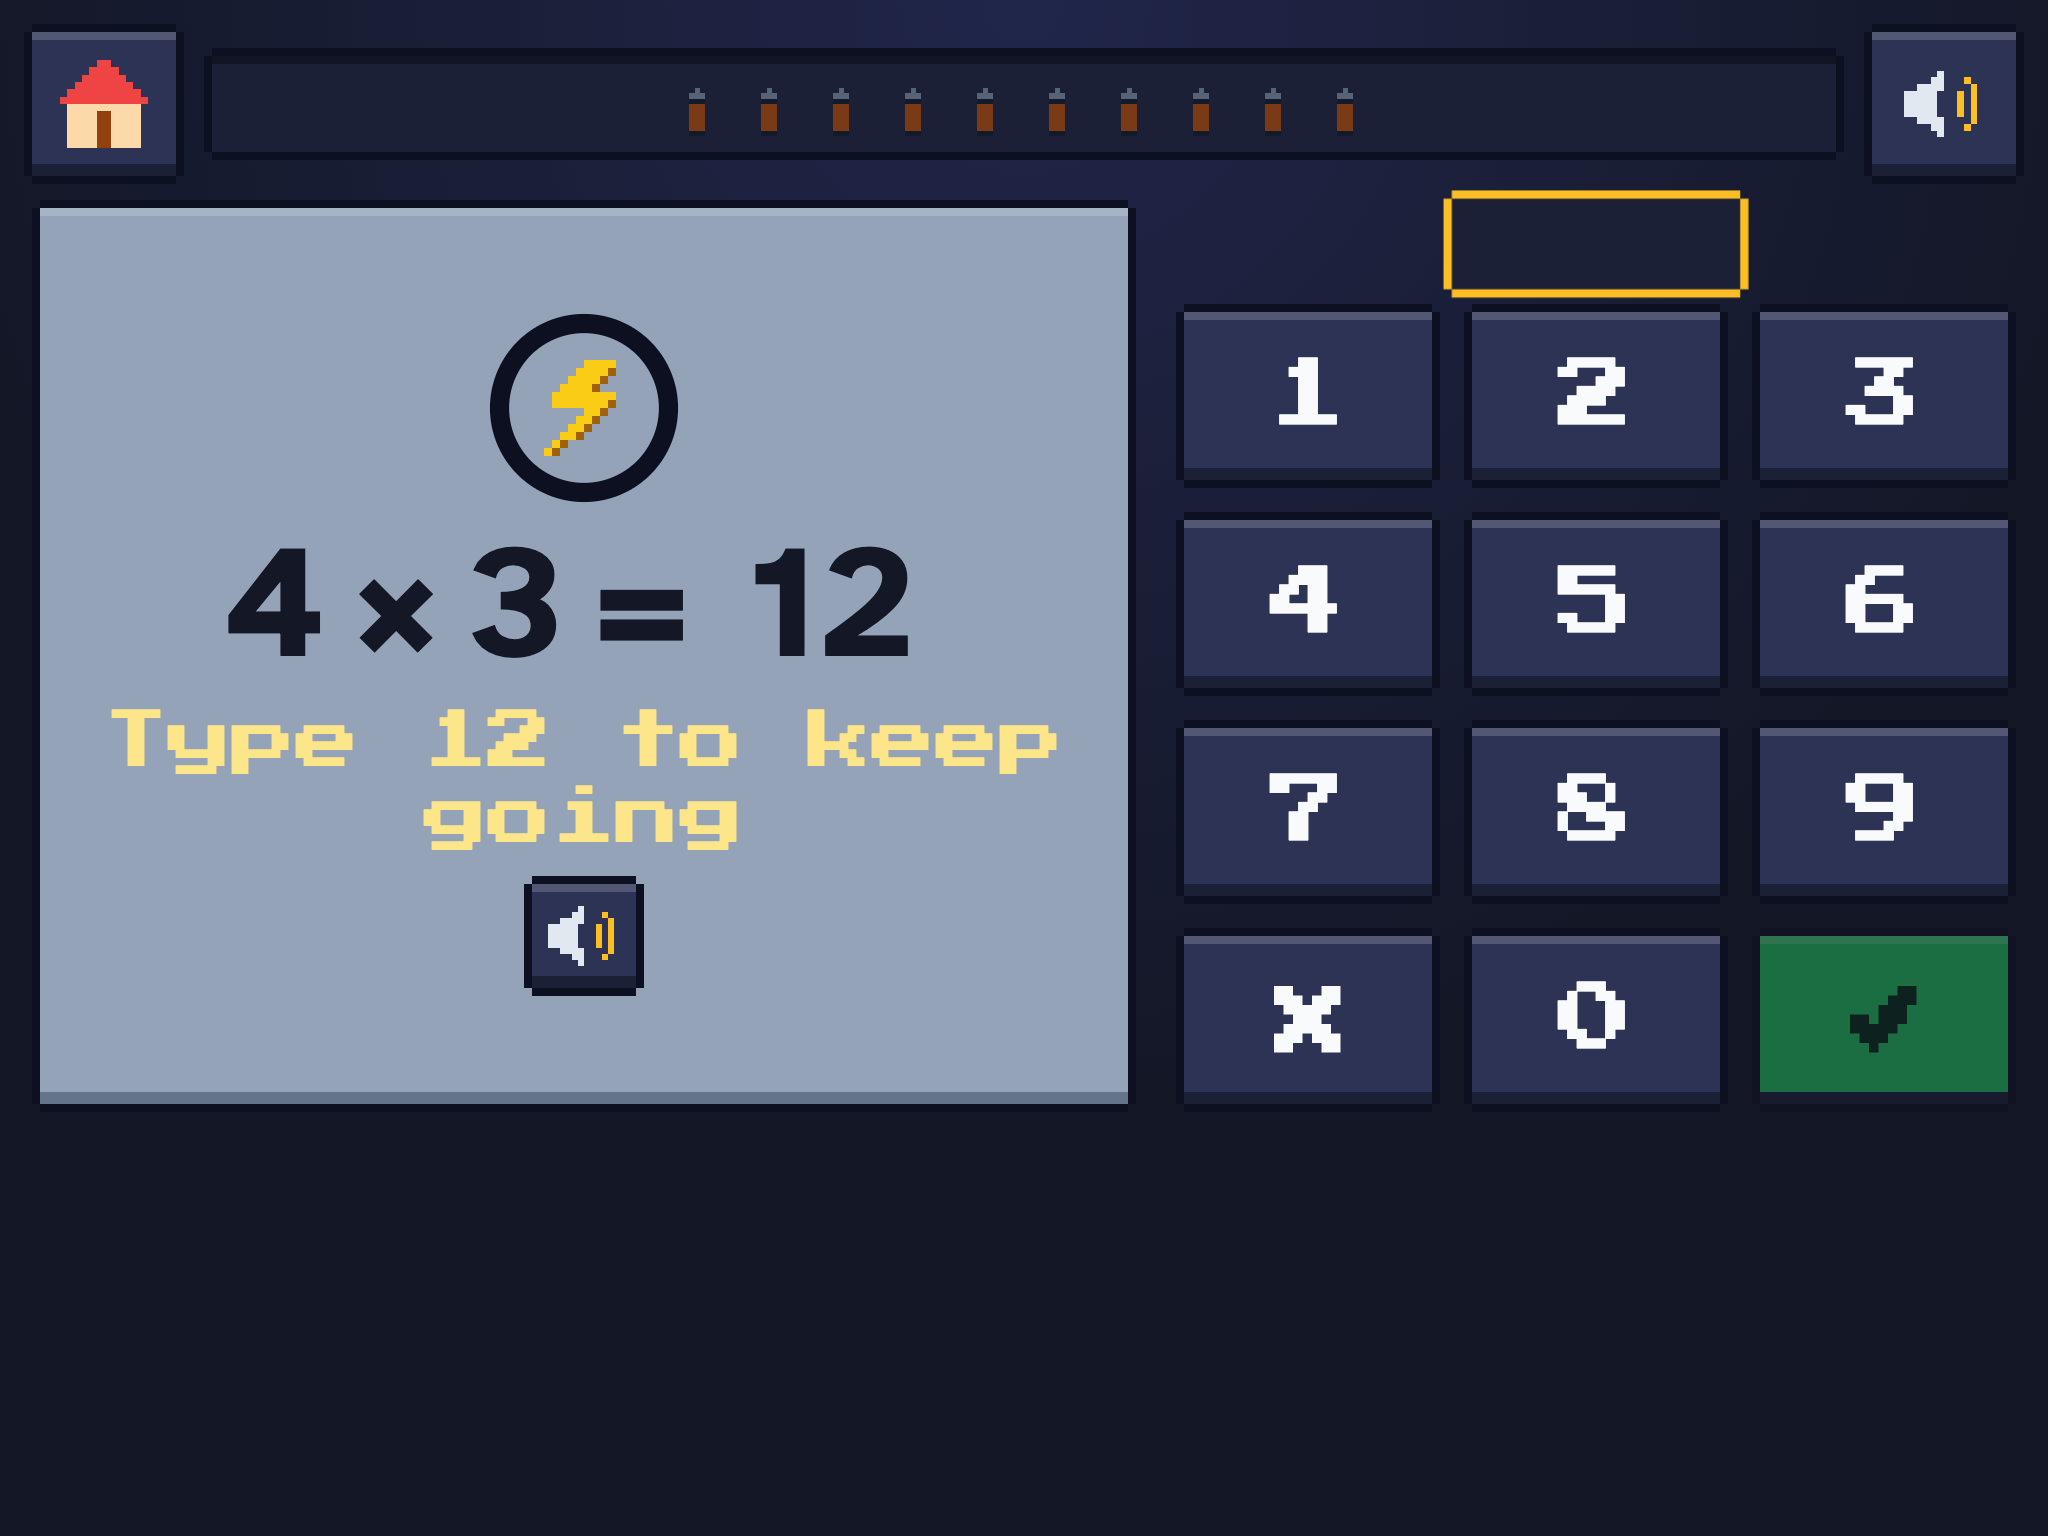
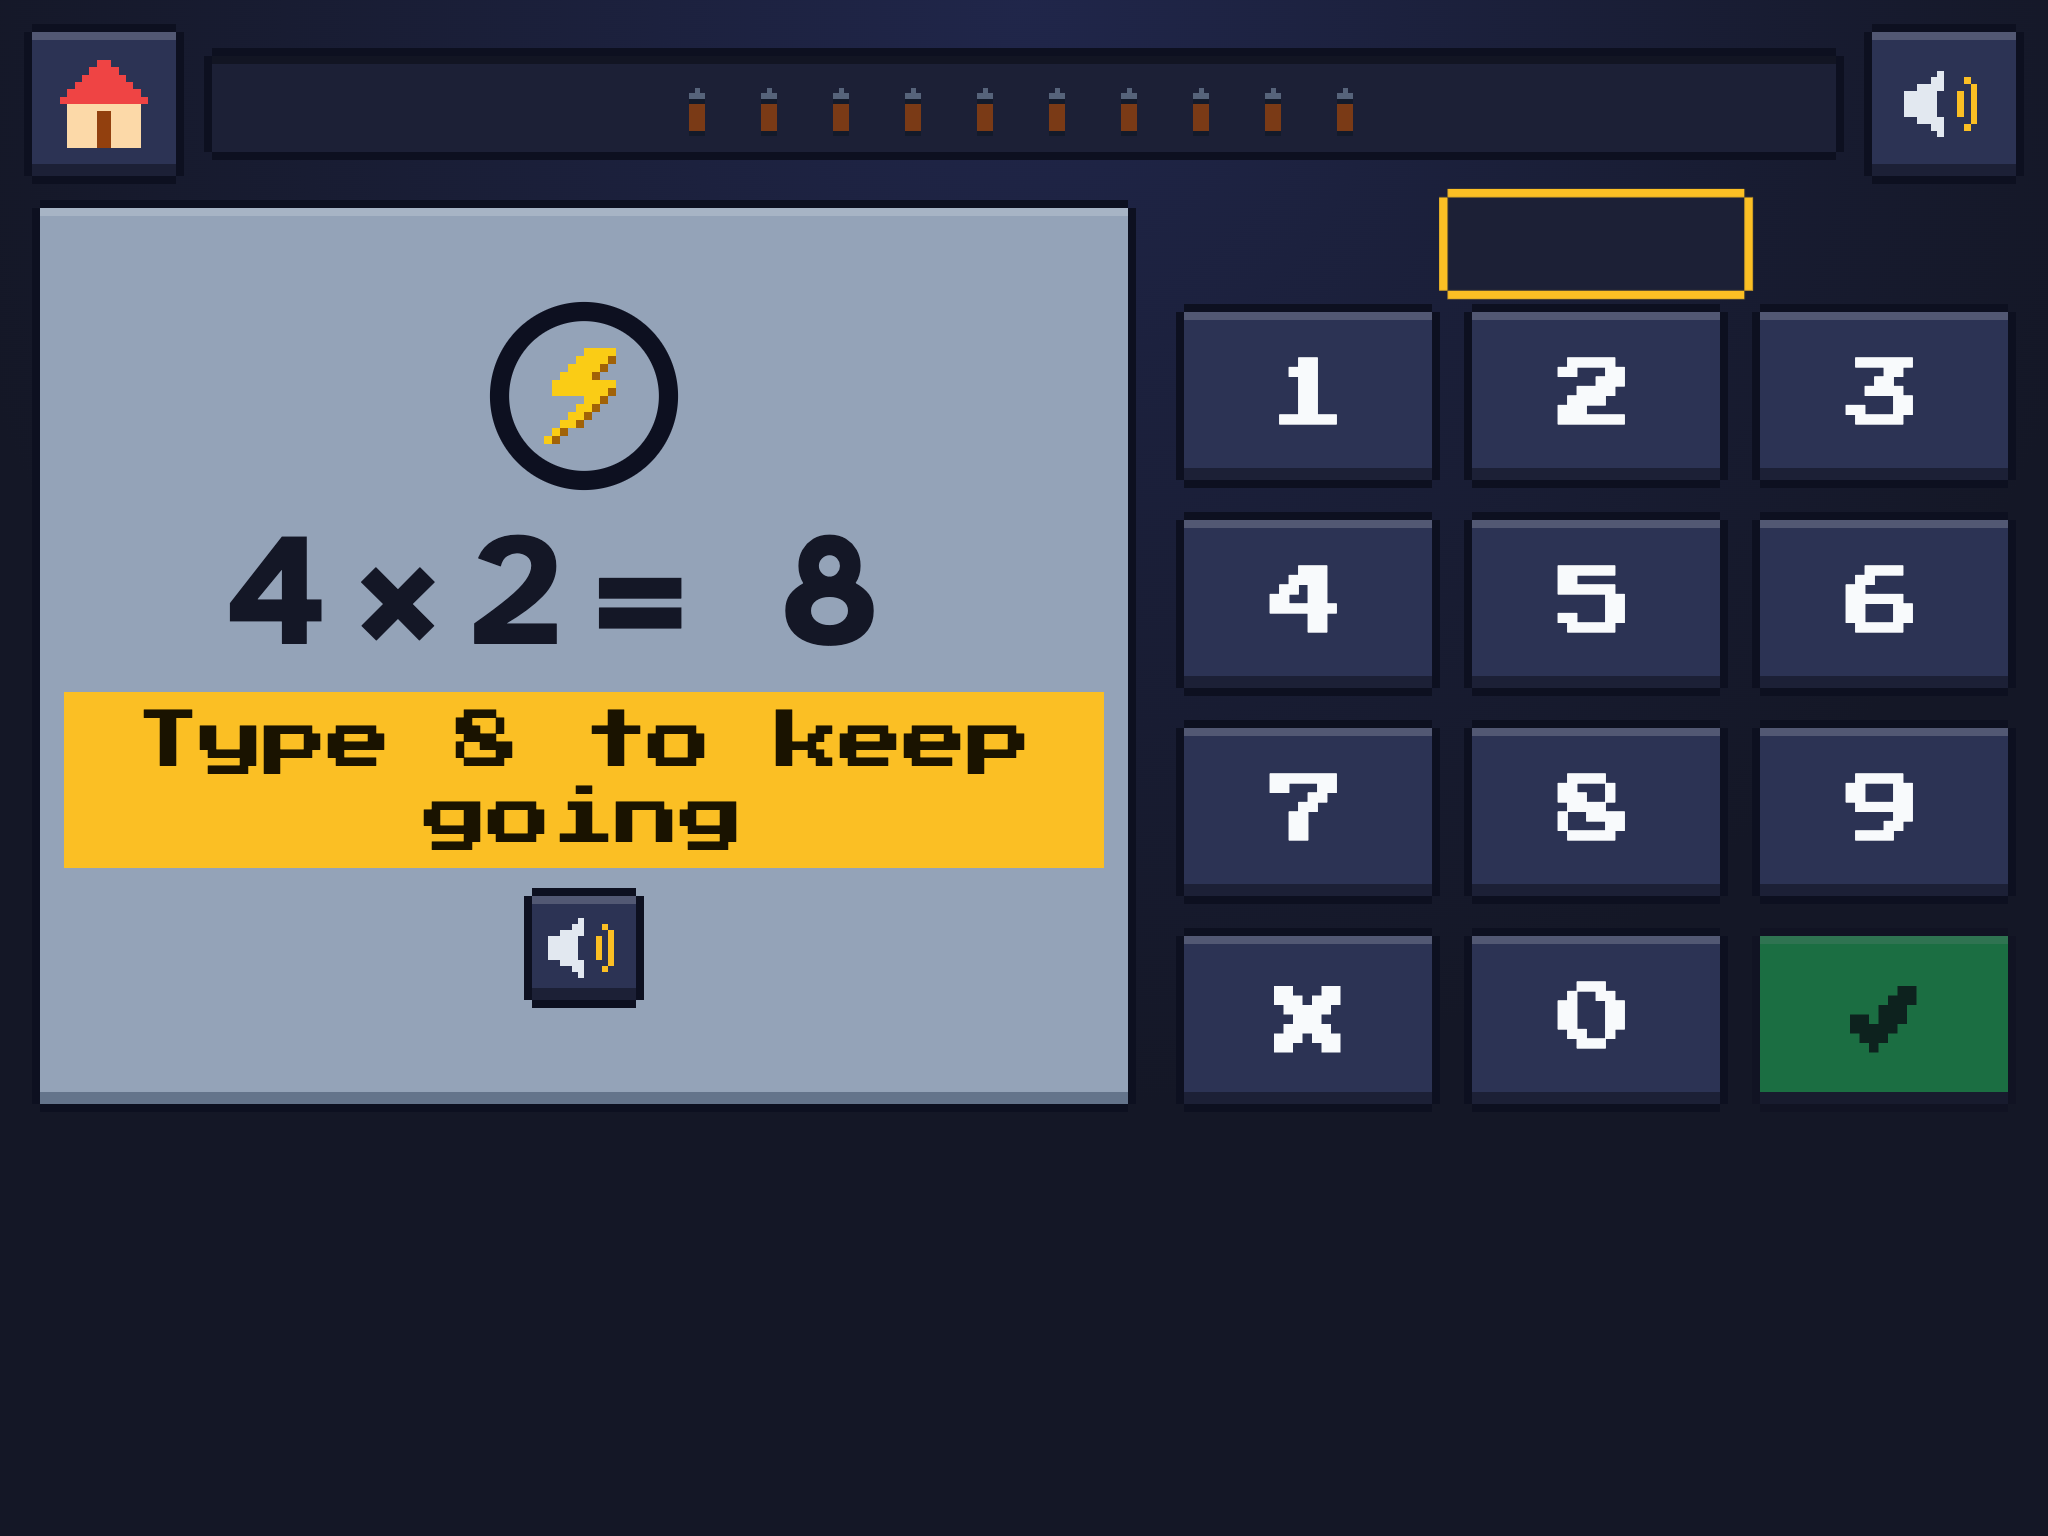
lightning: miss prompt as dark text on a gold band (pale yellow on the light card was hard to read)

diff --git a/src/styles.css b/src/styles.css
@@ -1647,7 +1647,7 @@ html:has(.screen.parent[data-theme='light']) body { background: #f4f5fb; }
 @keyframes lr-flash { 0% { transform: scale(1); } 40% { transform: scale(1.5); } 100% { transform: scale(1); } }
 .lr-card .math { font-size: clamp(40px, 11vw, 64px); }
 .lr-copy { margin: 0; font-size: 18px; min-height: 1.2em; }
-.lr-copy.is-prompt { font-family: var(--pixel); font-size: clamp(22px, 5.5vw, 32px); line-height: 1.2; color: #fde68a; text-align: center; }
+.lr-copy.is-prompt { font-family: var(--pixel); font-size: clamp(22px, 5.5vw, 32px); line-height: 1.2; color: var(--px-gold-text); background: var(--px-gold); padding: 6px 12px; text-align: center; }
 .lr-typed { width: 100%; display: flex; flex-direction: column; align-items: center; gap: 8px; }
 .lr-typed-box { min-width: 140px; text-align: center; font-family: var(--pixel); font-size: 32px; padding: 6px 14px; background: var(--px-neutral-dark); color: #fde68a; box-shadow: -4px 0 0 var(--px-edge), 4px 0 0 var(--px-edge), 0 -4px 0 var(--px-edge), 0 4px 0 var(--px-edge); }
 .lr-typed-box.is-prompt { color: #fff; box-shadow: -4px 0 0 var(--px-gold), 4px 0 0 var(--px-gold), 0 -4px 0 var(--px-gold), 0 4px 0 var(--px-gold); animation: lr-box-pulse 0.8s steps(2) infinite; }
